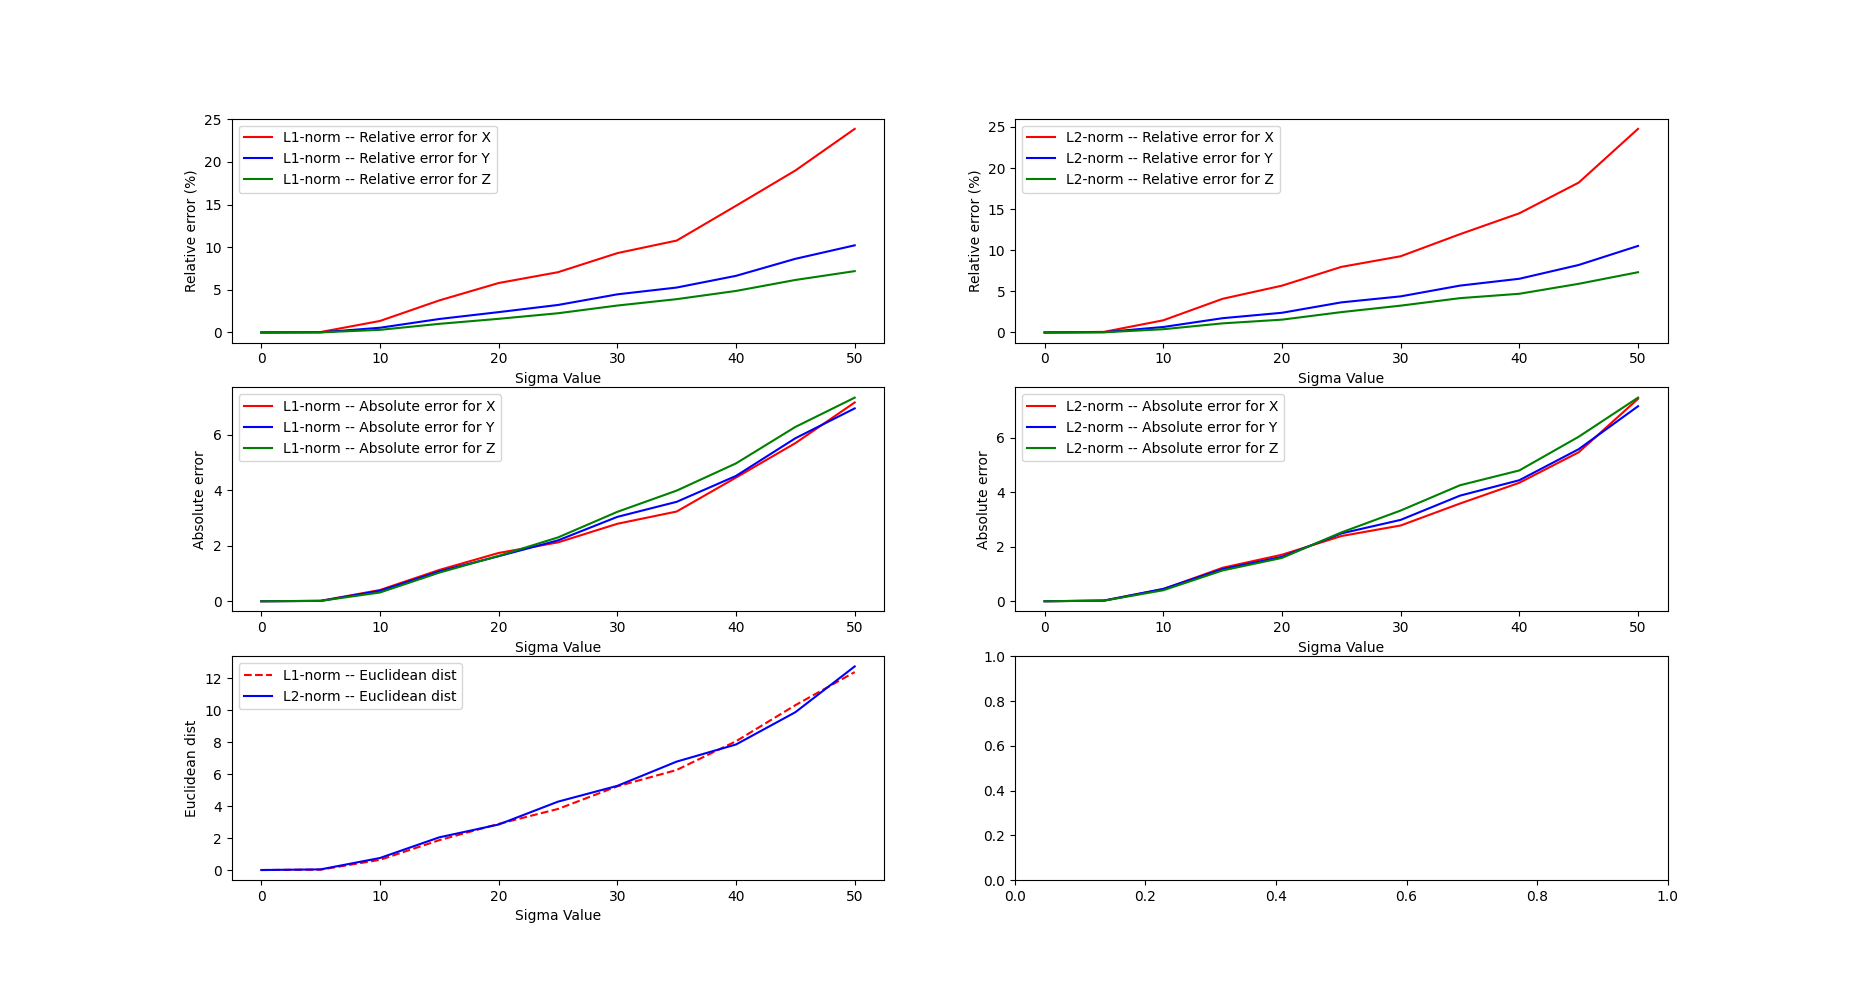
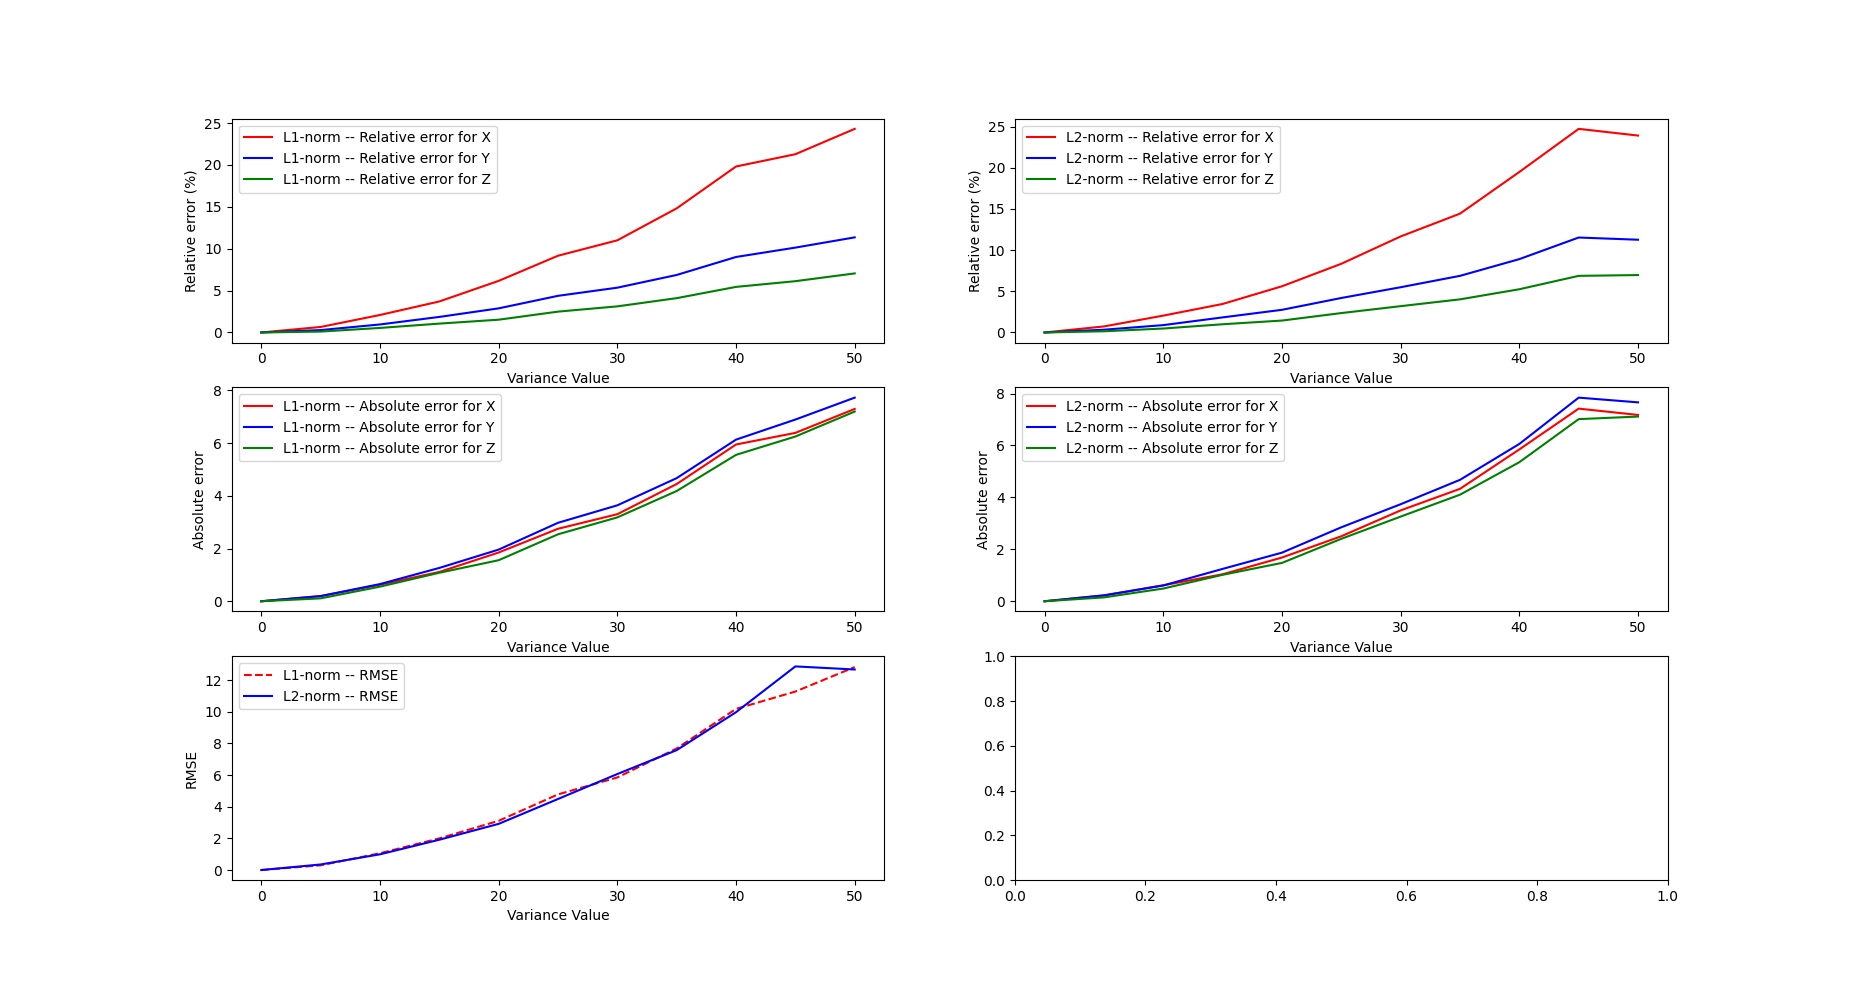
udpate result images

diff --git a/lsq_algo.py b/lsq_algo.py
@@ -16,15 +16,16 @@ step = (end_range - start_range)/10
 
 def lineseg_dist(p, a, b):
 
-	dist = 0
-
+	dist = []
+	dist_val = 0
 	for i in range(len(a)):
 
 		x = a[i] - b[i]
 		t = np.dot(p-b[i], x)/np.dot(x, x)
-		dist += np.linalg.norm(t*(a[i]-b[i])+b[i]-p)
+		dist_val = np.linalg.norm(t*(a[i]-b[i])+b[i]-p)
+		dist.append(dist_val)
 	
-	return dist
+	return np.linalg.norm(dist)
 
 def relative_err_calc(pred,gt):
 
@@ -119,8 +120,8 @@ for num in list_noise_percentage:
 
 		for i in range(LOOP_NUM):
 
-			a_train_with_noise = add_gaussian_noise(a_train,mean=0,var=num,percentage=0.2)
-			# a_train_with_noise = add_gaussian_noise(a_train,mean=0,var=10,percentage=num/100)
+			# a_train_with_noise = add_gaussian_noise(a_train,mean=0,var=num,percentage=0.2)
+			a_train_with_noise = add_gaussian_noise(a_train,mean=0,var=20,percentage=num/100)
 
 			res_soft_l1 = least_squares(lineseg_dist, p0, loss='soft_l1', f_scale=0.1,
 
@@ -156,14 +157,14 @@ for num in list_noise_percentage:
 		list_eu_err_L1.append(eu_err_L1)
 		list_eu_err_L2.append(eu_err_L2)
 
-# print('list_rela_err_L1: ',list_rela_err_L1)
-# print('list_rela_err_L2: ',list_rela_err_L2)
+print('list_rela_err_L1: ',list_rela_err_L1)
+print('list_rela_err_L2: ',list_rela_err_L2)
 
-# print('list_abs_err_L1: ',list_abs_err_L1)
-# print('list_abs_err_L2: ',list_abs_err_L2)
+print('list_abs_err_L1: ',list_abs_err_L1)
+print('list_abs_err_L2: ',list_abs_err_L2)
 
-# print('list_eu_err_L1: ',list_eu_err_L1)
-# print('list_eu_err_L2: ',list_eu_err_L2)
+print('list_eu_err_L1: ',list_eu_err_L1)
+print('list_eu_err_L2: ',list_eu_err_L2)
 
 list_rela_err_L1 = np.array(list_rela_err_L1)
 list_rela_err_L2 = np.array(list_rela_err_L2)
@@ -177,30 +178,30 @@ axs[0,0].plot(list_noise_percentage, list_rela_err_L1[:,0], 'r-')
 axs[0,0].plot(list_noise_percentage, list_rela_err_L1[:,1], 'b-')
 axs[0,0].plot(list_noise_percentage, list_rela_err_L1[:,2], 'g-')
 axs[0,0].legend(['L1-norm -- Relative error for X','L1-norm -- Relative error for Y','L1-norm -- Relative error for Z'])
-axs[0,0].set(xlabel='Sigma Value', ylabel='Relative error (%)')
+axs[0,0].set(xlabel='Outliers (%)', ylabel='Relative error (%)')
 
 axs[0,1].plot(list_noise_percentage, list_rela_err_L2[:,0], 'r-')
 axs[0,1].plot(list_noise_percentage, list_rela_err_L2[:,1], 'b-')
 axs[0,1].plot(list_noise_percentage, list_rela_err_L2[:,2], 'g-')
 axs[0,1].legend(['L2-norm -- Relative error for X','L2-norm -- Relative error for Y','L2-norm -- Relative error for Z'])
-axs[0,1].set(xlabel='Sigma Value', ylabel='Relative error (%)')
+axs[0,1].set(xlabel='Outliers (%)', ylabel='Relative error (%)')
 
 axs[1,0].plot(list_noise_percentage, list_abs_err_L1[:,0], 'r-')
 axs[1,0].plot(list_noise_percentage, list_abs_err_L1[:,1], 'b-')
 axs[1,0].plot(list_noise_percentage, list_abs_err_L1[:,2], 'g-')
 axs[1,0].legend(['L1-norm -- Absolute error for X','L1-norm -- Absolute error for Y','L1-norm -- Absolute error for Z'])
-axs[1,0].set(xlabel='Sigma Value', ylabel='Absolute error')
+axs[1,0].set(xlabel='Outliers (%)', ylabel='Absolute error')
 
 axs[1,1].plot(list_noise_percentage, list_abs_err_L2[:,0], 'r-')
 axs[1,1].plot(list_noise_percentage, list_abs_err_L2[:,1], 'b-')
 axs[1,1].plot(list_noise_percentage, list_abs_err_L2[:,2], 'g-')
 axs[1,1].legend(['L2-norm -- Absolute error for X','L2-norm -- Absolute error for Y','L2-norm -- Absolute error for Z'])
-axs[1,1].set(xlabel='Sigma Value', ylabel='Absolute error')
+axs[1,1].set(xlabel='Outliers (%)', ylabel='Absolute error')
 
 
 axs[2,0].plot(list_noise_percentage, list_eu_err_L1, 'r--')
 axs[2,0].plot(list_noise_percentage, list_eu_err_L2, 'b-')
-axs[2,0].legend(['L1-norm -- Euclidean dist', 'L2-norm -- Euclidean dist'])
-axs[2,0].set(xlabel='Sigma Value', ylabel='Euclidean dist')
+axs[2,0].legend(['L1-norm -- RMSE', 'L2-norm -- RMSE'])
+axs[2,0].set(xlabel='Outliers (%)', ylabel='RMSE')
 
 plt.show()
